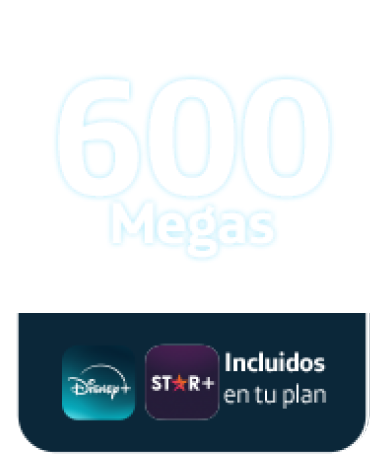
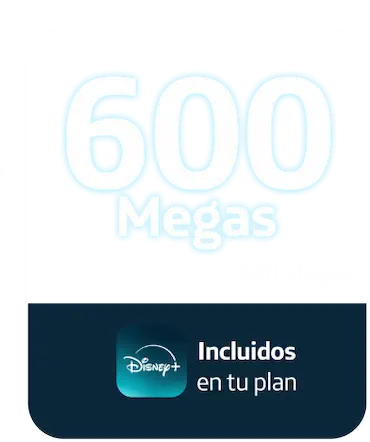
FEATURE:
* Change benefits
* Update Banners

diff --git a/resources/views/dev/partials/id_version/generica/carousel/duo_fibra/offers/offer-five.blade.php b/resources/views/dev/partials/id_version/generica/carousel/duo_fibra/offers/offer-five.blade.php
@@ -34,8 +34,7 @@
 				</button>
 			</div>
 			<div class="package-included">
-				<p>Incluidos en tu plan</p>
-				<img width="107" height="44" src="{{ asset('img/common/logo-combo-plus.webp') }}"  alt="Logo de Disney+ y Star+">
+				<img width="182" height="48" src="{{ asset('img/common/logo-disney.webp') }}" alt="Logo de Disney+ y Premium">
 			</div>
 		</div>
 	</div>

diff --git a/resources/views/dev/partials/id_version/generica/carousel/fibra/offers/offer-five.blade.php b/resources/views/dev/partials/id_version/generica/carousel/fibra/offers/offer-five.blade.php
@@ -38,8 +38,7 @@
 				</button>
 			</div>
 			<div class="package-included">
-				<p>Incluidos en tu plan</p>
-				<img width="107" height="44" src="{{ asset('img/common/logo-combo-plus.webp') }}"  alt="Logo de Disney+ y Star+">
+				<img width="182" height="48" src="{{ asset('img/common/logo-disney.webp') }}" alt="Logo de Disney+ y Premium">
 			</div>
 		</div>
 	</div>

diff --git a/resources/views/dev/partials/id_version/generica/carousel/duo_fibra/offers/offer-three.blade.php b/resources/views/dev/partials/id_version/generica/carousel/duo_fibra/offers/offer-three.blade.php
@@ -34,8 +34,7 @@
 				</button>
 			</div>
 			<div class="package-included">
-				<p>Incluidos en tu plan</p>
-				<img width="107" height="44" src="{{ asset('img/common/logo-combo-plus.webp') }}" alt="Logo de Disney+ y Star+">
+				<img width="182" height="48" src="{{ asset('img/common/logo-disney.webp') }}" alt="Logo de Disney+ y Premium">
 			</div>
 		</div>
 	</div>

diff --git a/resources/views/dev/partials/id_version/generica/carousel/duo_fibra/offers/offer-two.blade.php b/resources/views/dev/partials/id_version/generica/carousel/duo_fibra/offers/offer-two.blade.php
@@ -34,8 +34,7 @@
 				</button>
 			</div>
 			<div class="package-included">
-				<p>Incluidos en tu plan</p>
-				<img width="107" height="44" src="{{ asset('img/common/logo-combo-plus.webp') }}" alt="Logo de Disney+ y Star+">
+				<img width="182" height="48" src="{{ asset('img/common/logo-disney.webp') }}" alt="Logo de Disney+ y Premium">
 			</div>
 		</div>
 	</div>

diff --git a/resources/views/dev/partials/id_version/generica/carousel/fibra/offers/offer-three.blade.php b/resources/views/dev/partials/id_version/generica/carousel/fibra/offers/offer-three.blade.php
@@ -33,8 +33,7 @@
 				</button>
 			</div>
 			<div class="package-included">
-				<p>Incluidos en tu plan</p>
-				<img width="107" height="44" src="{{ asset('img/common/logo-combo-plus.webp') }}" alt="Logo de Disney+ y Star+">
+				<img width="182" height="48" src="{{ asset('img/common/logo-disney.webp') }}" alt="Logo de Disney+ y Premium">
 			</div>
 		</div>
 	</div>

diff --git a/resources/views/dev/partials/id_version/generica/carousel/fibra/offers/offer-two.blade.php b/resources/views/dev/partials/id_version/generica/carousel/fibra/offers/offer-two.blade.php
@@ -34,8 +34,7 @@
 				</button>
 			</div>
 			<div class="package-included">
-				<p>Incluidos en tu plan</p>
-				<img width="107" height="44" src="{{ asset('img/common/logo-combo-plus.webp') }}" alt="Logo de Disney+ y Star+">
+				<img width="182" height="48" src="{{ asset('img/common/logo-disney.webp') }}" alt="Logo de Disney+ y Premium">
 			</div>
 		</div>
 	</div>

diff --git a/resources/views/dev/partials/id_version/generica/carousel/trio_fibra/offers/offer-four.blade.php b/resources/views/dev/partials/id_version/generica/carousel/trio_fibra/offers/offer-four.blade.php
@@ -38,8 +38,7 @@
 				</button>
 			</div>
 			<div class="package-included">
-				<p>Incluidos en tu plan</p>
-				<img width="107" height="44" src="{{ asset('img/common/logo-combo-plus.webp') }}" alt="Logo de Disney+ y Star+">
+				<img width="182" height="48" src="{{ asset('img/common/logo-disney.webp') }}" alt="Logo de Disney+ y Premium">
 			</div>
 		</div>
 	</div>

diff --git a/resources/views/dev/partials/id_version/generica/carousel/trio_fibra/offers/offer-three.blade.php b/resources/views/dev/partials/id_version/generica/carousel/trio_fibra/offers/offer-three.blade.php
@@ -34,8 +34,7 @@
 				</button>
 			</div>
 			<div class="package-included">
-				<p>Incluidos en tu plan</p>
-				<img width="107" height="44" src="{{ asset('img/common/logo-combo-plus.webp') }}" alt="Logo de Disney+ y Star+">
+				<img width="182" height="48" src="{{ asset('img/common/logo-disney.webp') }}" alt="Logo de Disney+ y Premium">
 			</div>
 		</div>
 	</div>

diff --git a/resources/views/dev/partials/layouts/extend/master.blade.php b/resources/views/dev/partials/layouts/extend/master.blade.php
@@ -32,7 +32,9 @@
 	<link rel="preconnect" href="https://fonts.gstatic.com" crossorigin>
 	<!-- <link href="https://fonts.googleapis.com/css2?family=Roboto:wght@400;500;700&display=swap" rel="stylesheet"> -->
 
-	@section('metadata')
+	<link rel="canonical" href="{{url()->current()}}/" />
+
+@section('metadata')
 	@show
 </head>
 <body>
